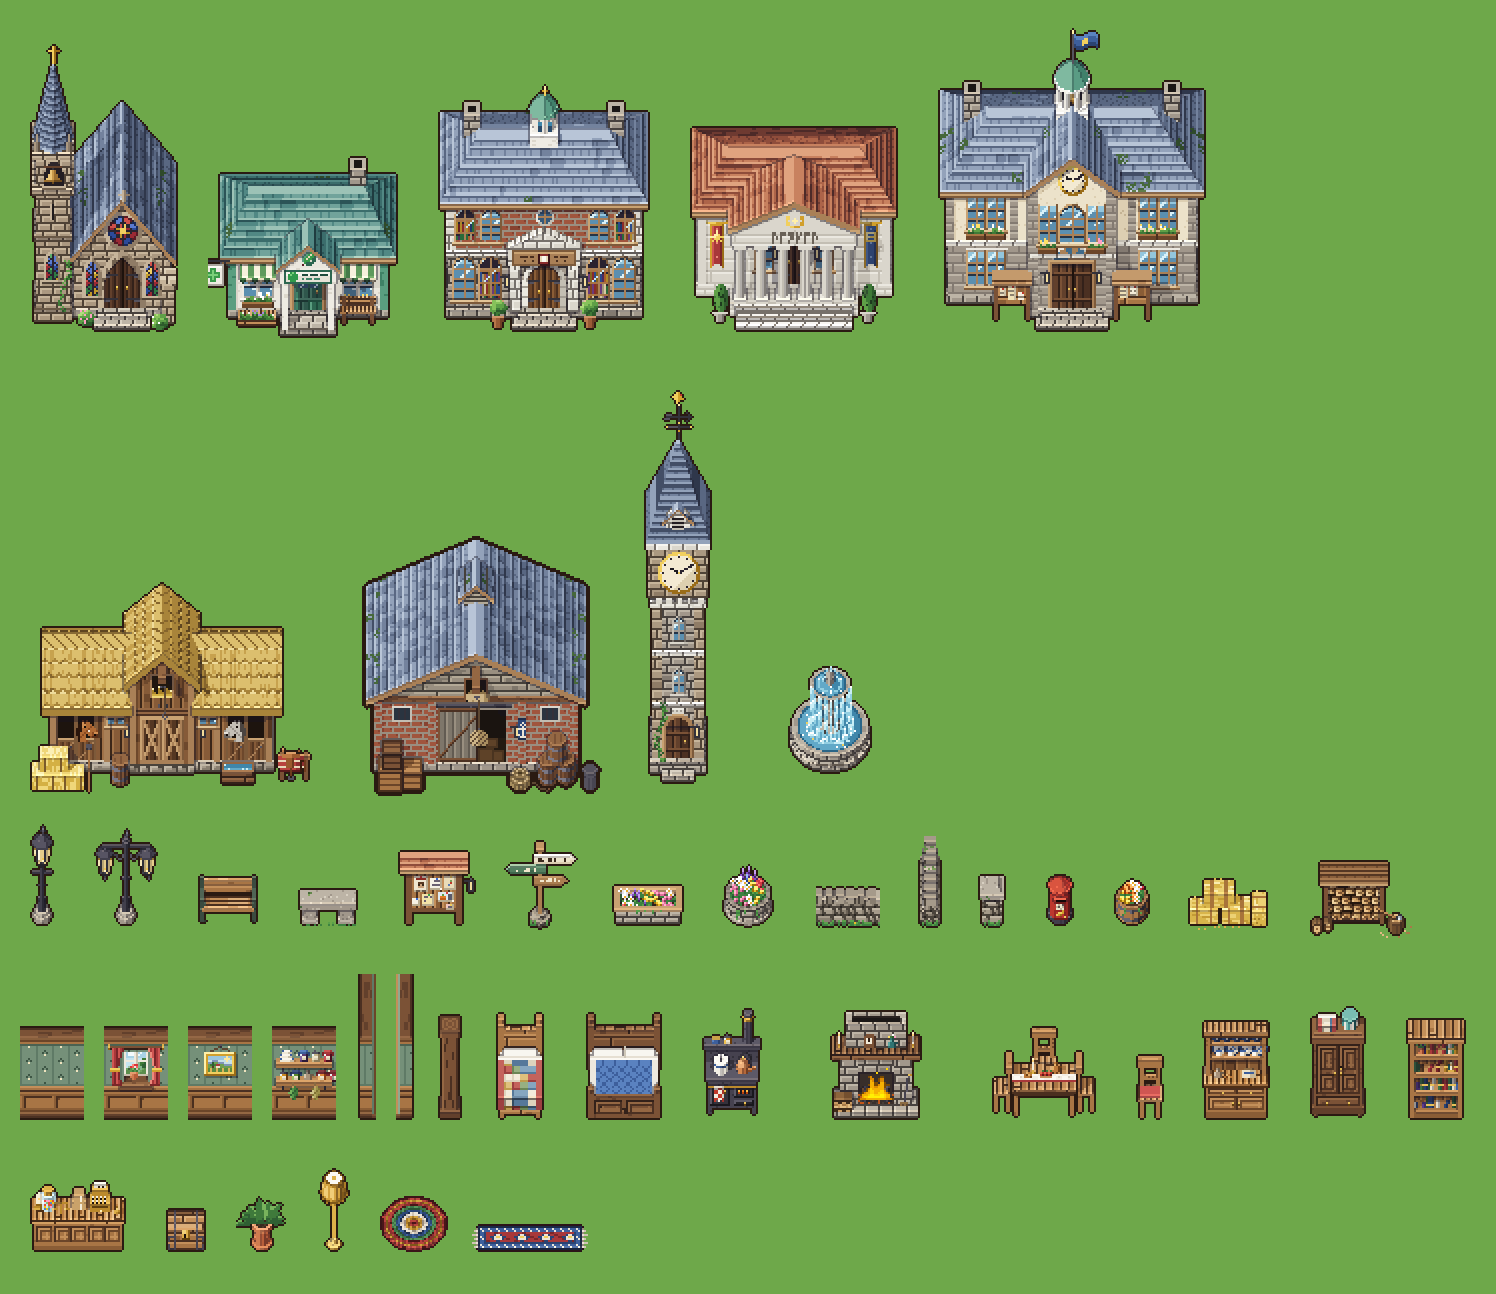
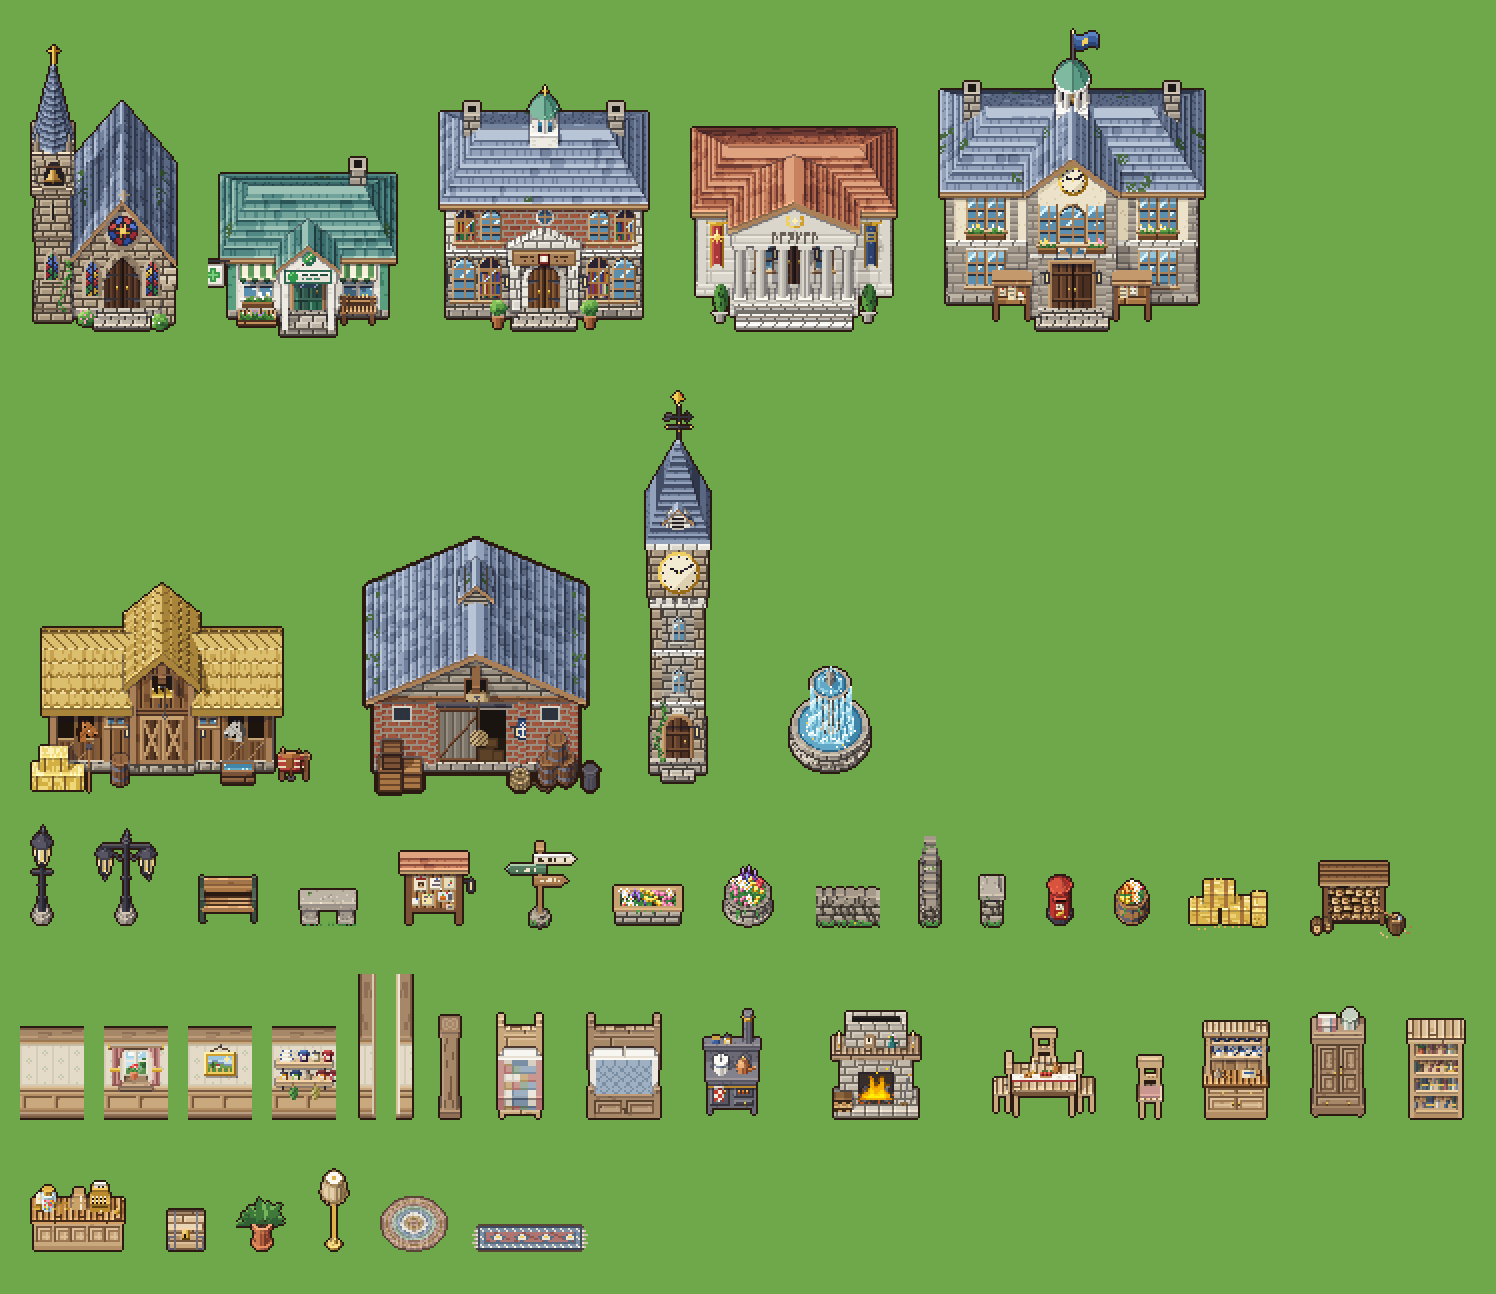
Lighter, calmer interiors
Interior furniture in pale oak with soft walnut trim, linen walls,
dusty muted textiles and book spines, a soft grey stove and a pale
limestone fireplace; floorboards lighter, longer and less grainy,
stone flags in one pale beige.

Claude-Session: https://claude.ai/code/session_01Y3QepJTJgk9rCJ93wTDK78

diff --git a/tools/art/vale/interior3d.py b/tools/art/vale/interior3d.py
@@ -30,13 +30,26 @@ from buildings import BRASS, C, DARKWOOD, FIELDSTONE, IRON, LEAF, LIT, STONE, TR
 from market import CLOTH, GOLD, WHITE, candle, jug
 from oblique import K, Mat, Scene, box, frustum, hsh, prism, prism_x
 
+# Indoors everything is lighter and calmer than out in the street: pale oak furniture, softer
+# walnut for frames and trim, and muted, dusty textiles in place of the market's bright cloth.
+WOOD = ["#4a3322", "#76563b", "#9c7752", "#b48f66", "#c9a87d", "#dcc099", "#ead5b5"]
+DARKWOOD = ["#3b2a1f", "#5a4231", "#785a43", "#8f6f55", "#a68768", "#ba9e7f", "#cdb597"]
+CLOTH = {**CLOTH,
+         "red": ["#6a3c3c", "#8f5652", "#b07570", "#c99690", "#e0bcb4"],  # dusty rose
+         "blue": ["#3e4c5e", "#5a6c82", "#7a8ea4", "#9fb0c2", "#c6d2dd"],  # faded slate blue
+         "teal": ["#425448", "#5d7262", "#7b917e", "#9db09d", "#c3d0bf"],  # sage
+         "green": ["#425448", "#5d7262", "#7b917e", "#9db09d", "#c3d0bf"],
+         "ochre": ["#6b5430", "#8f7348", "#b09465", "#cbb185", "#e3d0ab"]}  # oat
+STONE = ["#4f4740", "#71685e", "#8f857a", "#a99f92", "#c0b7a9", "#d4ccbf", "#e5dfd4"]  # pale limestone
+FIELDSTONE = STONE
+
 GROUP = "室内"
 WALL_H = 40  # room wall height
 WALL_T = 6  # back wall thickness (world y)
 SEG = 32  # segment length; every wall pattern repeats with this period
 SIDE_D = 40  # side wall segment depth in world y: 32 px on the map
 
-IRONK = ["#0e0d11", "#19171d", "#25232a", "#34313b", "#46424f", "#5d5967", "#7d7988"]  # blackened iron
+IRONK = ["#26252b", "#34333b", "#45434d", "#57555f", "#6b6974", "#83818c", "#a19fa9"]  # soft grey iron
 BRASSR = ["#3a2608", "#5e3f0e", "#8f6418", "#bb8a2c", "#ddb04a", "#f1d27a", "#fff0b8"]
 COPPERR = ["#2e170c", "#5a2e16", "#8a4a26", "#b4683a", "#d68a52", "#eeb07c", "#f8d3ac"]
 CLAY = ["#3a1a10", "#6a2e1a", "#94442a", "#b85e3a", "#d07c50", "#e49c70", "#f0c09a"]
@@ -46,13 +59,14 @@ BARK = ["#24170f", "#3b261a", "#553723", "#6f4a2e", "#8a5f3b", "#a6794f", "#c49a
 HONEY = ["#2c1a0c", "#4f2f16", "#7a4a22", "#9c6430", "#bb8044", "#d39f62", "#e8c08a"]  # pale polished wood
 LEAVES = ["#1a3320", "#24482a", "#2f5f33", "#3f7a3b", "#57974a", "#78b35c", "#a3d07a"]
 PAPERS = {  # wallpaper ramp, (flower, leaf) of its sprig
+    "linen": (["#6f6555", "#9c917e", "#c4b9a3", "#d6ccb6", "#e3dbc8", "#ece6d7", "#f5f1e7"], ("#dcc3b4", "#c3c9ad")),
     "sage": (["#22302a", "#34473c", "#4b6252", "#5f7a66", "#759079", "#8fa98f", "#b3c8ad"], ("#efe3bd", "#3d5544")),
     "rose": (["#3a2226", "#5c3639", "#7e4f50", "#9a6865", "#b4837d", "#cca29a", "#e3c6bd"], ("#f6ead6", "#6f8a5e")),
     "cream": (["#4a3b2c", "#7d6a52", "#a99475", "#c4b08e", "#d8c7a6", "#e8dbc0", "#f4ecd9"], ("#b0503a", "#6f8a5a")),
     "blue": (["#1c2636", "#2e3d55", "#435673", "#5a6f8f", "#7489a8", "#94a8c2", "#bccbdc"], ("#f1e8d0", "#d9b45a")),
 }
-PATCH = [["#5e2426", "#9c4040", "#c4635c"], ["#7a5c26", "#bf9a4c", "#dfc07c"], ["#8f8674", "#ddd3bd", "#f3ecdc"],
-         ["#344c62", "#56789a", "#86a6c0"], ["#43573a", "#6b8656", "#97b082"], ["#8f8674", "#ddd3bd", "#f3ecdc"]]
+PATCH = [["#8f5652", "#b07570", "#c99690"], ["#8f7348", "#b09465", "#cbb185"], ["#a39a8c", "#d6cfc2", "#ece7dc"],
+         ["#5a6c82", "#7a8ea4", "#9fb0c2"], ["#5d7262", "#7b917e", "#9db09d"], ["#a39a8c", "#d6cfc2", "#ece7dc"]]
 JARS = {  # contents of a preserving jar: dark, mid, light
     "jam": ("#4a1020", "#9e2a3a", "#d0505a"), "honey": ("#6a3a08", "#c98a1e", "#f0c050"),
     "pickle": ("#24401a", "#5a8a2e", "#9ac060"), "plum": ("#2c1a3a", "#5a3a72", "#8a6aa8"),
@@ -156,7 +170,7 @@ def _wall_scene(spec, opening=None):
     """A back wall segment from x=-16 to 16 (no side padding, so rows of them tile), optionally
     built round an opening (x0, x1, z0, z1)."""
     S = Scene(pad=0, pad_top=2, pad_bottom=2)
-    wm = wall_mat(spec.get("paper", "sage"))
+    wm = wall_mat(spec.get("paper", "linen"))
     h = SEG / 2
     if opening is None:
         S.add(box(-h, h, 0, WALL_T, 0, WALL_H, wm))
@@ -414,7 +428,7 @@ def wall_side(spec):
     face (spec side: "left" wall, room on its right; "right" wall, room on its left). Stacked,
     the segments join into one continuous wall; the front one shows the wall's end."""
     left = spec.get("side", "left") == "left"
-    paper = spec.get("paper", "sage")
+    paper = spec.get("paper", "linen")
     ramp = PAPERS[paper][0]
     x0, x1 = (-4, 2) if left else (-2, 4)
     S = Scene(pad=2, pad_top=1, pad_bottom=2)
@@ -1073,8 +1087,8 @@ def wardrobe(spec):
     return done(S, cv, "prop", fp(-12.5, 12.5, 12.5))
 
 
-BOOKS = ["#7a2629", "#a8383a", "#2b4372", "#3d5f9c", "#2b5233", "#3f7447", "#7e5719", "#ad7d26", "#3d2862",
-         "#5a3b8c", "#5a3d26", "#8a5f3b", "#1d4f53", "#e9e1cf"]
+BOOKS = ["#8f5652", "#a86d66", "#5a6c82", "#76889d", "#5d7262", "#7b917e", "#8f7348", "#ad9265", "#6e5d72",
+         "#8a7a8c", "#7d5e44", "#9a7a5c", "#5b7472", "#e3dccb"]
 
 
 def _books(cv, rnd, x0, x1, bottom, hmax):
@@ -1400,10 +1414,10 @@ def _rag_mat(cols, R):
 
 def rug_round(spec):
     """A round braided rag rug lying flat (walked over)."""
-    cols = [["#4a1619", "#8c2f30", "#b9443e"], ["#7e5719", "#ad7d26", "#d4a340"], ["#9a8c80", "#cfc3b4", "#ece4d6"],
-            ["#1d2c4c", "#2d4777", "#3f63a0"], ["#2b5233", "#3f7447", "#5a965c"]]
+    cols = [["#8f6f60", "#ad8a7a", "#c6a698"], ["#8f7348", "#b09465", "#cbb185"], ["#a39a8c", "#d6cfc2", "#ece7dc"],
+            ["#6f7f92", "#8a9bad", "#a9b7c5"], ["#7b917e", "#9db09d", "#bccab9"]]
     R = spec.get("radius", 16)
-    S = Scene(pad=2, pad_top=2, pad_bottom=2, outline="#3a1418")
+    S = Scene(pad=2, pad_top=2, pad_bottom=2, outline="#5a4436")
     S.add(prism(0, R, R, 0, 0.6, _rag_mat(cols, R), sides=36))
     cv = S.render()
     return done(S, cv, "rug", fp(-R, R, 2 * R), solid=False)
@@ -1437,7 +1451,7 @@ def rug_runner(spec):
     """A long woven runner with a border, a row of diamonds down the middle and fringed ends."""
     field = CLOTH[spec.get("cloth", "red")]
     border = CLOTH[spec.get("border", "blue")]
-    S = Scene(pad=4, pad_top=2, pad_bottom=2, outline="#2a1418")
+    S = Scene(pad=4, pad_top=2, pad_bottom=2, outline="#5a4436")
     L = spec.get("length", 26)
     S.add(box(-L, L, 0, 14, 0, 0.6, _runner_mat(field, border)))
     cv = S.render()
@@ -1464,12 +1478,12 @@ DESIGNS = {
 }
 
 ENTRIES = [
-    {"id": "wall_back", "name": "墙面", "group": GROUP, "type": "wall_back", "seed": 1, "paper": "sage"},
-    {"id": "wall_window", "name": "窗户墙", "group": GROUP, "type": "wall_window", "seed": 1, "paper": "sage", "curtain": "red"},
-    {"id": "wall_picture", "name": "挂画墙", "group": GROUP, "type": "wall_picture", "seed": 1, "paper": "sage"},
-    {"id": "wall_shelf", "name": "壁架墙", "group": GROUP, "type": "wall_shelf", "seed": 2, "paper": "sage"},
-    {"id": "wall_side", "name": "左侧墙", "group": GROUP, "type": "wall_side", "seed": 1, "paper": "sage", "side": "left"},
-    {"id": "wall_side_r", "name": "右侧墙", "group": GROUP, "type": "wall_side", "seed": 1, "paper": "sage", "side": "right"},
+    {"id": "wall_back", "name": "墙面", "group": GROUP, "type": "wall_back", "seed": 1, "paper": "linen"},
+    {"id": "wall_window", "name": "窗户墙", "group": GROUP, "type": "wall_window", "seed": 1, "paper": "linen", "curtain": "red"},
+    {"id": "wall_picture", "name": "挂画墙", "group": GROUP, "type": "wall_picture", "seed": 1, "paper": "linen"},
+    {"id": "wall_shelf", "name": "壁架墙", "group": GROUP, "type": "wall_shelf", "seed": 2, "paper": "linen"},
+    {"id": "wall_side", "name": "左侧墙", "group": GROUP, "type": "wall_side", "seed": 1, "paper": "linen", "side": "left"},
+    {"id": "wall_side_r", "name": "右侧墙", "group": GROUP, "type": "wall_side", "seed": 1, "paper": "linen", "side": "right"},
     {"id": "wall_corner", "name": "墙角柱", "group": GROUP, "type": "wall_corner", "seed": 1},
     {"id": "bed", "name": "单人床", "group": GROUP, "type": "bed", "seed": 3, "quilt": "patch"},
     {"id": "bed_double", "name": "双人床", "group": GROUP, "type": "bed", "seed": 4, "double": True, "quilt": "blue", "dark": True},

diff --git a/CHANGELOG.md b/CHANGELOG.md
@@ -2,6 +2,16 @@
 
 按时间倒序记录每次更新。版本号用 `0.主版本.小版本`：画面方向或架构发生变化时加主版本号，同一方向上的调整加小版本号。括号里是对应的提交。
 
+## v0.16.1 · 室内换成清爽的配色（2026-10-14）
+
+- **室内家具和墙**：整体调亮、调柔和。
+  - 家具换成浅橡木色，画框、床架等深色部分也改成柔和的胡桃木色。
+  - 墙纸从深绿换成米白亚麻色，小花纹很淡。
+  - 床单、坐垫、窗帘、地毯、书脊改成灰粉、雾蓝、灰绿、燕麦色，不再是鲜艳的红蓝。
+  - 铁灶台从近黑改成柔和的灰色，壁炉换成浅色石灰岩。
+- **木地板**：颜色更浅更暖，木板更长，纹理和深浅变化减弱。
+- **石板地**：统一成浅米色，石块之间深浅差别更小，缝也更浅。
+
 ## v0.16.0 · 84 种新建筑与道具、室内地面（2026-10-14）
 
 - **新建筑和道具**：全部先搭立体模型再画成像素画，编辑器里新增六个分组，共 84 种。
